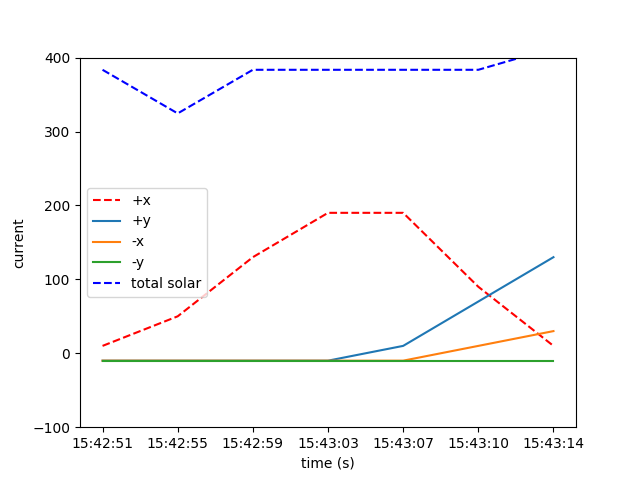
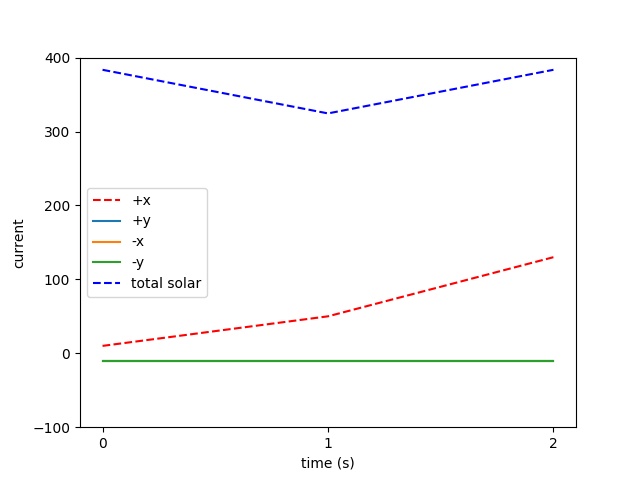
updated to allow for non timestamped input

diff --git a/toCSV.py b/toCSV.py
@@ -8,29 +8,48 @@ csvfile = csv.writer(f)
 
 time = "__:__:__"
 frame = 0
-for line in file:
-    line = line.partition('$')[0]
-    if line[0] != ' ':
-        time = line[0:8]
-    else:
-        prev = line[0]
-        i = 0
-        for c in line:
-            if (c == line[i+1]) & (c == ' '):
-                line = line[0:i] + line[i+1:]
-            else:
-                prev = c
-                i = i + 1
-            if i + 1 == len(line):
-                break
-        line = str(frame) + ' ' + time + line
+
+last_pos = file.tell()
+
+if file.readline()[0:2] == 'hi':
+    file.seek(last_pos)
+    for line in file:
+        line = str(frame) + ' ' + str(frame) + ' ' + line
         line = line.replace(' ',',')
         line = line.replace(',\n','')
         line.partition
         line = line.split(",")
+        if line[14] == None:
+            line = None
         print(line)
         csvfile.writerow(line)
-        frame = frame + 1
+        frame += 1
+else:
+    for line in file:
+        line = line.partition('$')[0]
+        if line[0] != ' ':
+            time = line[0:8]
+        else:
+            prev = line[0]
+            i = 0
+            for c in line:
+                if (c == line[i+1]) & (c == ' '):
+                    line = line[0:i] + line[i+1:]
+                else:
+                    prev = c
+                    i = i + 1
+                if i + 1 == len(line):
+                    break
+            line = str(frame) + ' ' + time + line
+            line = line.replace(' ',',')
+            line = line.replace(',\n','')
+            line.partition
+            line = line.split(",")
+            if line[14] == None:
+                line = None
+            print(line)
+            csvfile.writerow(line)
+            frame = frame + 1
 
 
 
